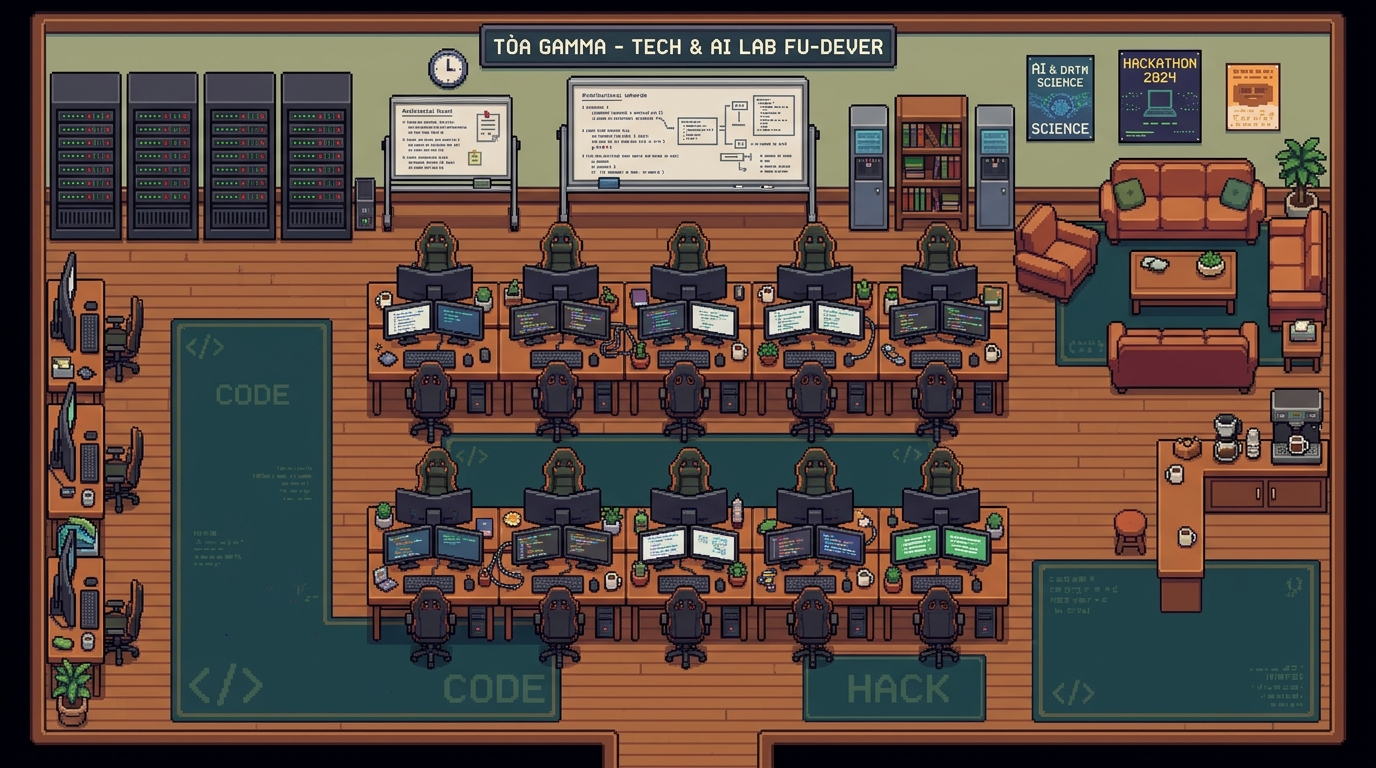
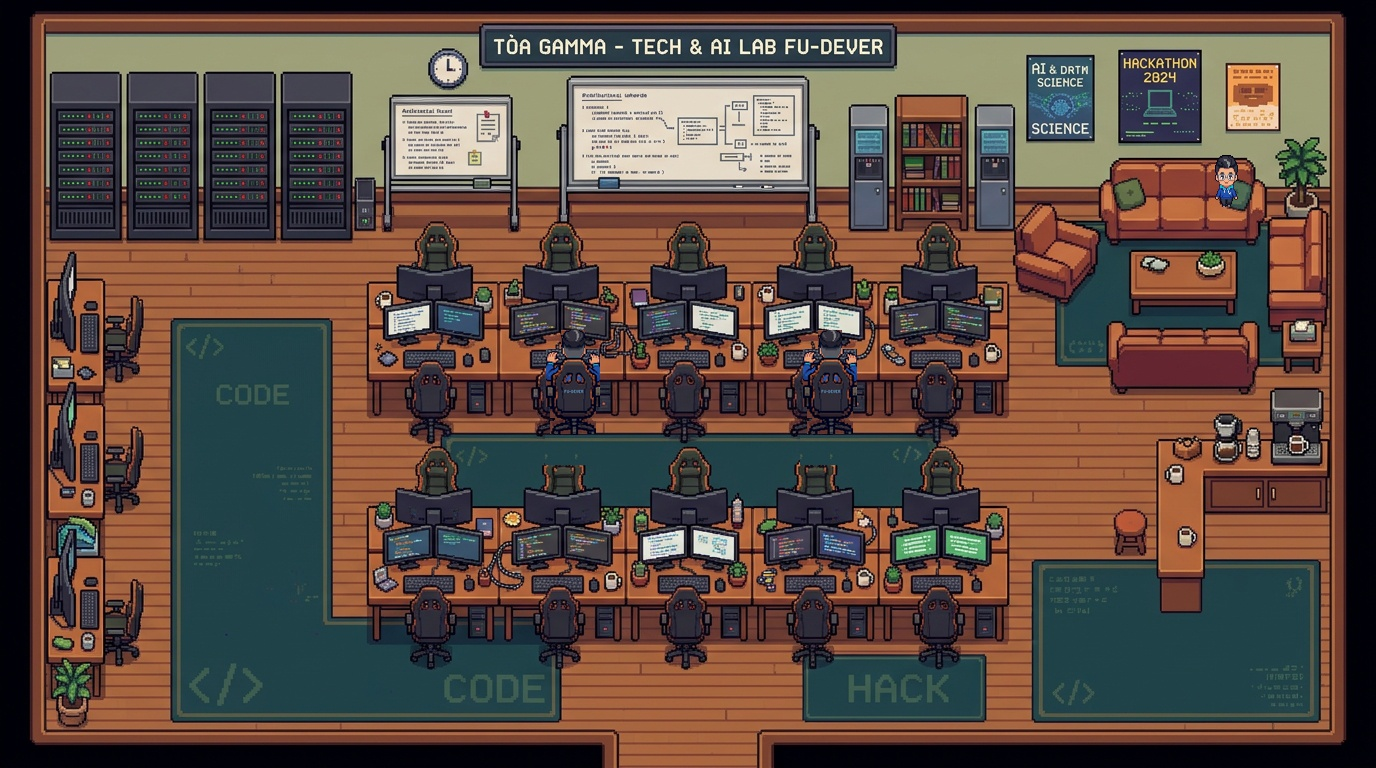
feat(lab): integrate seated devs into Tech Lab map, support direct room query boot, and calibrate live interactions

Changed region(s): [[0.5625, 0.4375, 0.625, 0.625], [0.375, 0.4375, 0.4375, 0.625], [0.875, 0.1875, 0.9062, 0.2812]]

diff --git a/src/config/maps.js b/src/config/maps.js
@@ -345,8 +345,8 @@ export const MAPS_CONFIG = {
     ],
     portals: [
       { x: 680, y: 720, targetRoomId: 'main_hall', targetSpawn: { x: 746, y: 330 }, label: 'Ra Sân Tòa Alpha' },
-      { x: 445, y: 255, targetRoomId: 'dever_lab', targetSpawn: { x: 400, y: 190 }, label: 'Phòng Lab Hóa' },
-      { x: 445, y: 610, targetRoomId: 'dever_lab', targetSpawn: { x: 400, y: 416 }, label: 'Phòng Server' },
+      { x: 445, y: 255, targetRoomId: 'dever_lab', targetSpawn: { x: 650, y: 700 }, label: 'Phòng Lab Hóa' },
+      { x: 445, y: 610, targetRoomId: 'dever_lab', targetSpawn: { x: 650, y: 700 }, label: 'Phòng Server' },
       // Phân cấp phòng học: vào qua nội thất Tòa Alpha (dời từ sân ngoài trời).
       { x: 700, y: 280, targetRoomId: 'library_lounge', targetSpawn: { x: 400, y: 350 }, label: 'Sang Thư Viện' },
       { x: 1000, y: 520, targetRoomId: 'meeting_room', targetSpawn: { x: 400, y: 336 }, label: 'Sang Phòng Họp & Lớp Học' },
@@ -431,8 +431,8 @@ export const MAPS_CONFIG = {
         ],
         portals: [
           { x: 680, y: 720, targetRoomId: 'main_hall', targetSpawn: { x: 746, y: 330 }, label: 'Ra Sân Tòa Alpha' },
-          { x: 445, y: 255, targetRoomId: 'dever_lab', targetSpawn: { x: 400, y: 190 }, label: 'Phòng Lab Hóa' },
-          { x: 445, y: 610, targetRoomId: 'dever_lab', targetSpawn: { x: 400, y: 416 }, label: 'Phòng Server' },
+          { x: 445, y: 255, targetRoomId: 'dever_lab', targetSpawn: { x: 650, y: 700 }, label: 'Phòng Lab Hóa' },
+          { x: 445, y: 610, targetRoomId: 'dever_lab', targetSpawn: { x: 650, y: 700 }, label: 'Phòng Server' },
           // (giống top-level) Phân cấp phòng học qua nội thất Tòa Alpha.
           { x: 700, y: 280, targetRoomId: 'library_lounge', targetSpawn: { x: 400, y: 350 }, label: 'Sang Thư Viện' },
           { x: 1000, y: 520, targetRoomId: 'meeting_room', targetSpawn: { x: 400, y: 336 }, label: 'Sang Phòng Họp & Lớp Học' },
@@ -552,22 +552,20 @@ export const MAPS_CONFIG = {
       [ 15, 15, 15, 15, 15, 15, 15, 15, 15, 15, 15, 15, 15, 15, 15, 15, 15, 15, 15, 15, 15, 15, 15, 15, 15 ]
     ],
     portals: [
-      { x: 650, y: 735, tileX: 12, tileY: 14, targetRoomId: 'alpha_interior', targetSpawn: { x: 445, y: 325 }, labelKey: 'portals.back_to_alpha', label: 'Về Sảnh Alpha' },
-      { x: 1310, y: 220, tileX: 21, tileY: 1, targetRoomId: 'game_arcade', targetSpawn: { x: 400, y: 350 }, label: 'Sang Arcade & Robot' },
+      { x: 650, y: 735, tileX: 12, tileY: 14, targetRoomId: 'alpha_interior', targetSpawn: { x: 680, y: 580 }, labelKey: 'portals.back_to_alpha', label: 'Về Sảnh Alpha' },
+      { x: 1310, y: 130, tileX: 21, tileY: 1, targetRoomId: 'game_arcade', targetSpawn: { x: 400, y: 350 }, label: 'Sang Arcade & Robot' },
       { x: 260, y: 330, tileX: 3, tileY: 1, targetRoomId: 'server_dungeon', targetSpawn: { x: 384, y: 100 }, label: 'Xuống Hầm Sự Cố' }
     ],
     zones: [
       { id: 'zone_lab_hackathon_a1', type: 'sit_chair', x: 425, y: 440, name: 'Bàn Hackathon Alpha 1', label: 'Ngồi Ghế Hackathon Alpha 1', direction: 'up' },
-      { id: 'zone_lab_hackathon_a2', type: 'sit_chair', x: 555, y: 440, name: 'Bàn Hackathon Alpha 2', label: 'Ngồi Ghế Hackathon Alpha 2', direction: 'up' },
       { id: 'zone_lab_hackathon_a3', type: 'sit_chair', x: 685, y: 440, name: 'Bàn Hackathon Alpha 3', label: 'Ngồi Ghế Hackathon Alpha 3', direction: 'up' },
-      { id: 'zone_lab_hackathon_a4', type: 'sit_chair', x: 812, y: 440, name: 'Bàn Hackathon Alpha 4', label: 'Ngồi Ghế Hackathon Alpha 4', direction: 'up' },
       { id: 'zone_lab_hackathon_a5', type: 'sit_chair', x: 940, y: 440, name: 'Bàn Hackathon Alpha 5', label: 'Ngồi Ghế Hackathon Alpha 5', direction: 'up' },
       { id: 'zone_lab_hackathon_b1', type: 'sit_chair', x: 425, y: 710, name: 'Bàn Hackathon Beta 1', label: 'Ngồi Ghế Hackathon Beta 1', direction: 'up' },
       { id: 'zone_lab_hackathon_b2', type: 'sit_chair', x: 555, y: 710, name: 'Bàn Hackathon Beta 2', label: 'Ngồi Ghế Hackathon Beta 2', direction: 'up' },
       { id: 'zone_lab_hackathon_b3', type: 'sit_chair', x: 685, y: 710, name: 'Bàn Hackathon Beta 3', label: 'Ngồi Ghế Hackathon Beta 3', direction: 'up' },
       { id: 'zone_lab_hackathon_b4', type: 'sit_chair', x: 812, y: 710, name: 'Bàn Hackathon Beta 4', label: 'Ngồi Ghế Hackathon Beta 4', direction: 'up' },
       { id: 'zone_lab_hackathon_b5', type: 'sit_chair', x: 940, y: 710, name: 'Bàn Hackathon Beta 5', label: 'Ngồi Ghế Hackathon Beta 5', direction: 'up' },
-      { id: 'zone_lab_sofa', type: 'sit_sofa', x: 1175, y: 195, name: 'Sofa Da Thư Giãn Lab', label: 'Ngồi Sofa Thư Giãn', direction: 'down' },
+      { id: 'zone_lab_sofa', type: 'sit_sofa', x: 1140, y: 195, name: 'Sofa Da Thư Giãn Lab', label: 'Ngồi Sofa Thư Giãn', direction: 'down' },
       { id: 'zone_lab_server', type: 'terminal_status', x: 195, y: 310, name: 'Cụm Trạm Server Racks CLB', label: 'Kiểm Tra Server CLB' },
       { id: 'zone_lab_whiteboard', type: 'whiteboard_slides', x: 630, y: 310, name: 'Bảng Sơ Đồ Kiến Trúc Lab', label: 'Xem Kiến Trúc Hệ Thống' },
       { id: 'zone_lab_coffee', type: 'coffee_machine', x: 1220, y: 590, name: 'Máy Pha Cà Phê Espresso', label: 'Pha Cà Phê Dev' }

diff --git a/src/scenes/WorldScene.js b/src/scenes/WorldScene.js
@@ -153,10 +153,18 @@ export class WorldScene extends Phaser.Scene {
     this.transitionManager = new SceneTransitionManager(this);
 
     // 1. Khởi tạo Local Player
+    const urlParams = typeof window !== 'undefined' ? new URLSearchParams(window.location.search) : null;
+    const initialRoomParam = urlParams?.get('room');
+    if (initialRoomParam && MAPS_CONFIG[initialRoomParam]) {
+      this.currentRoomId = initialRoomParam;
+    }
+
     const user = authService.getUser();
     const mapData = this.floorManager.getCurrentFloorData(this.currentRoomId) || MAPS_CONFIG.main_hall;
-    const spawnX = mapData.spawnPoint.x;
-    const spawnY = mapData.spawnPoint.y;
+    const qX = urlParams ? Number(urlParams.get('x')) : NaN;
+    const qY = urlParams ? Number(urlParams.get('y')) : NaN;
+    const spawnX = (!isNaN(qX) && qX > 0) ? qX : mapData.spawnPoint.x;
+    const spawnY = (!isNaN(qY) && qY > 0) ? qY : mapData.spawnPoint.y;
 
     let wardrobeConfig = user?.wardrobe_config || null;
     const savedWardrobeRaw = localStorage.getItem('dever_wardrobe_config');

diff --git a/src/config/npcs.js b/src/config/npcs.js
@@ -343,9 +343,9 @@ export const NPC_CONFIG = {
       id: 'npc_algo_truyen',
       name: 'Phạm Đức Truyền',
       role: 'Algorithm Lead • Đội Tuyển ICPC',
-      tileX: 15, tileY: 8,
-      x: 1080, y: 350,
-      direction: 'down',
+      tileX: 7, tileY: 18,
+      x: 220, y: 600,
+      direction: 'right',
       spriteConfig: {
         gender: 'male',
         hairstyle: 'undercut',
